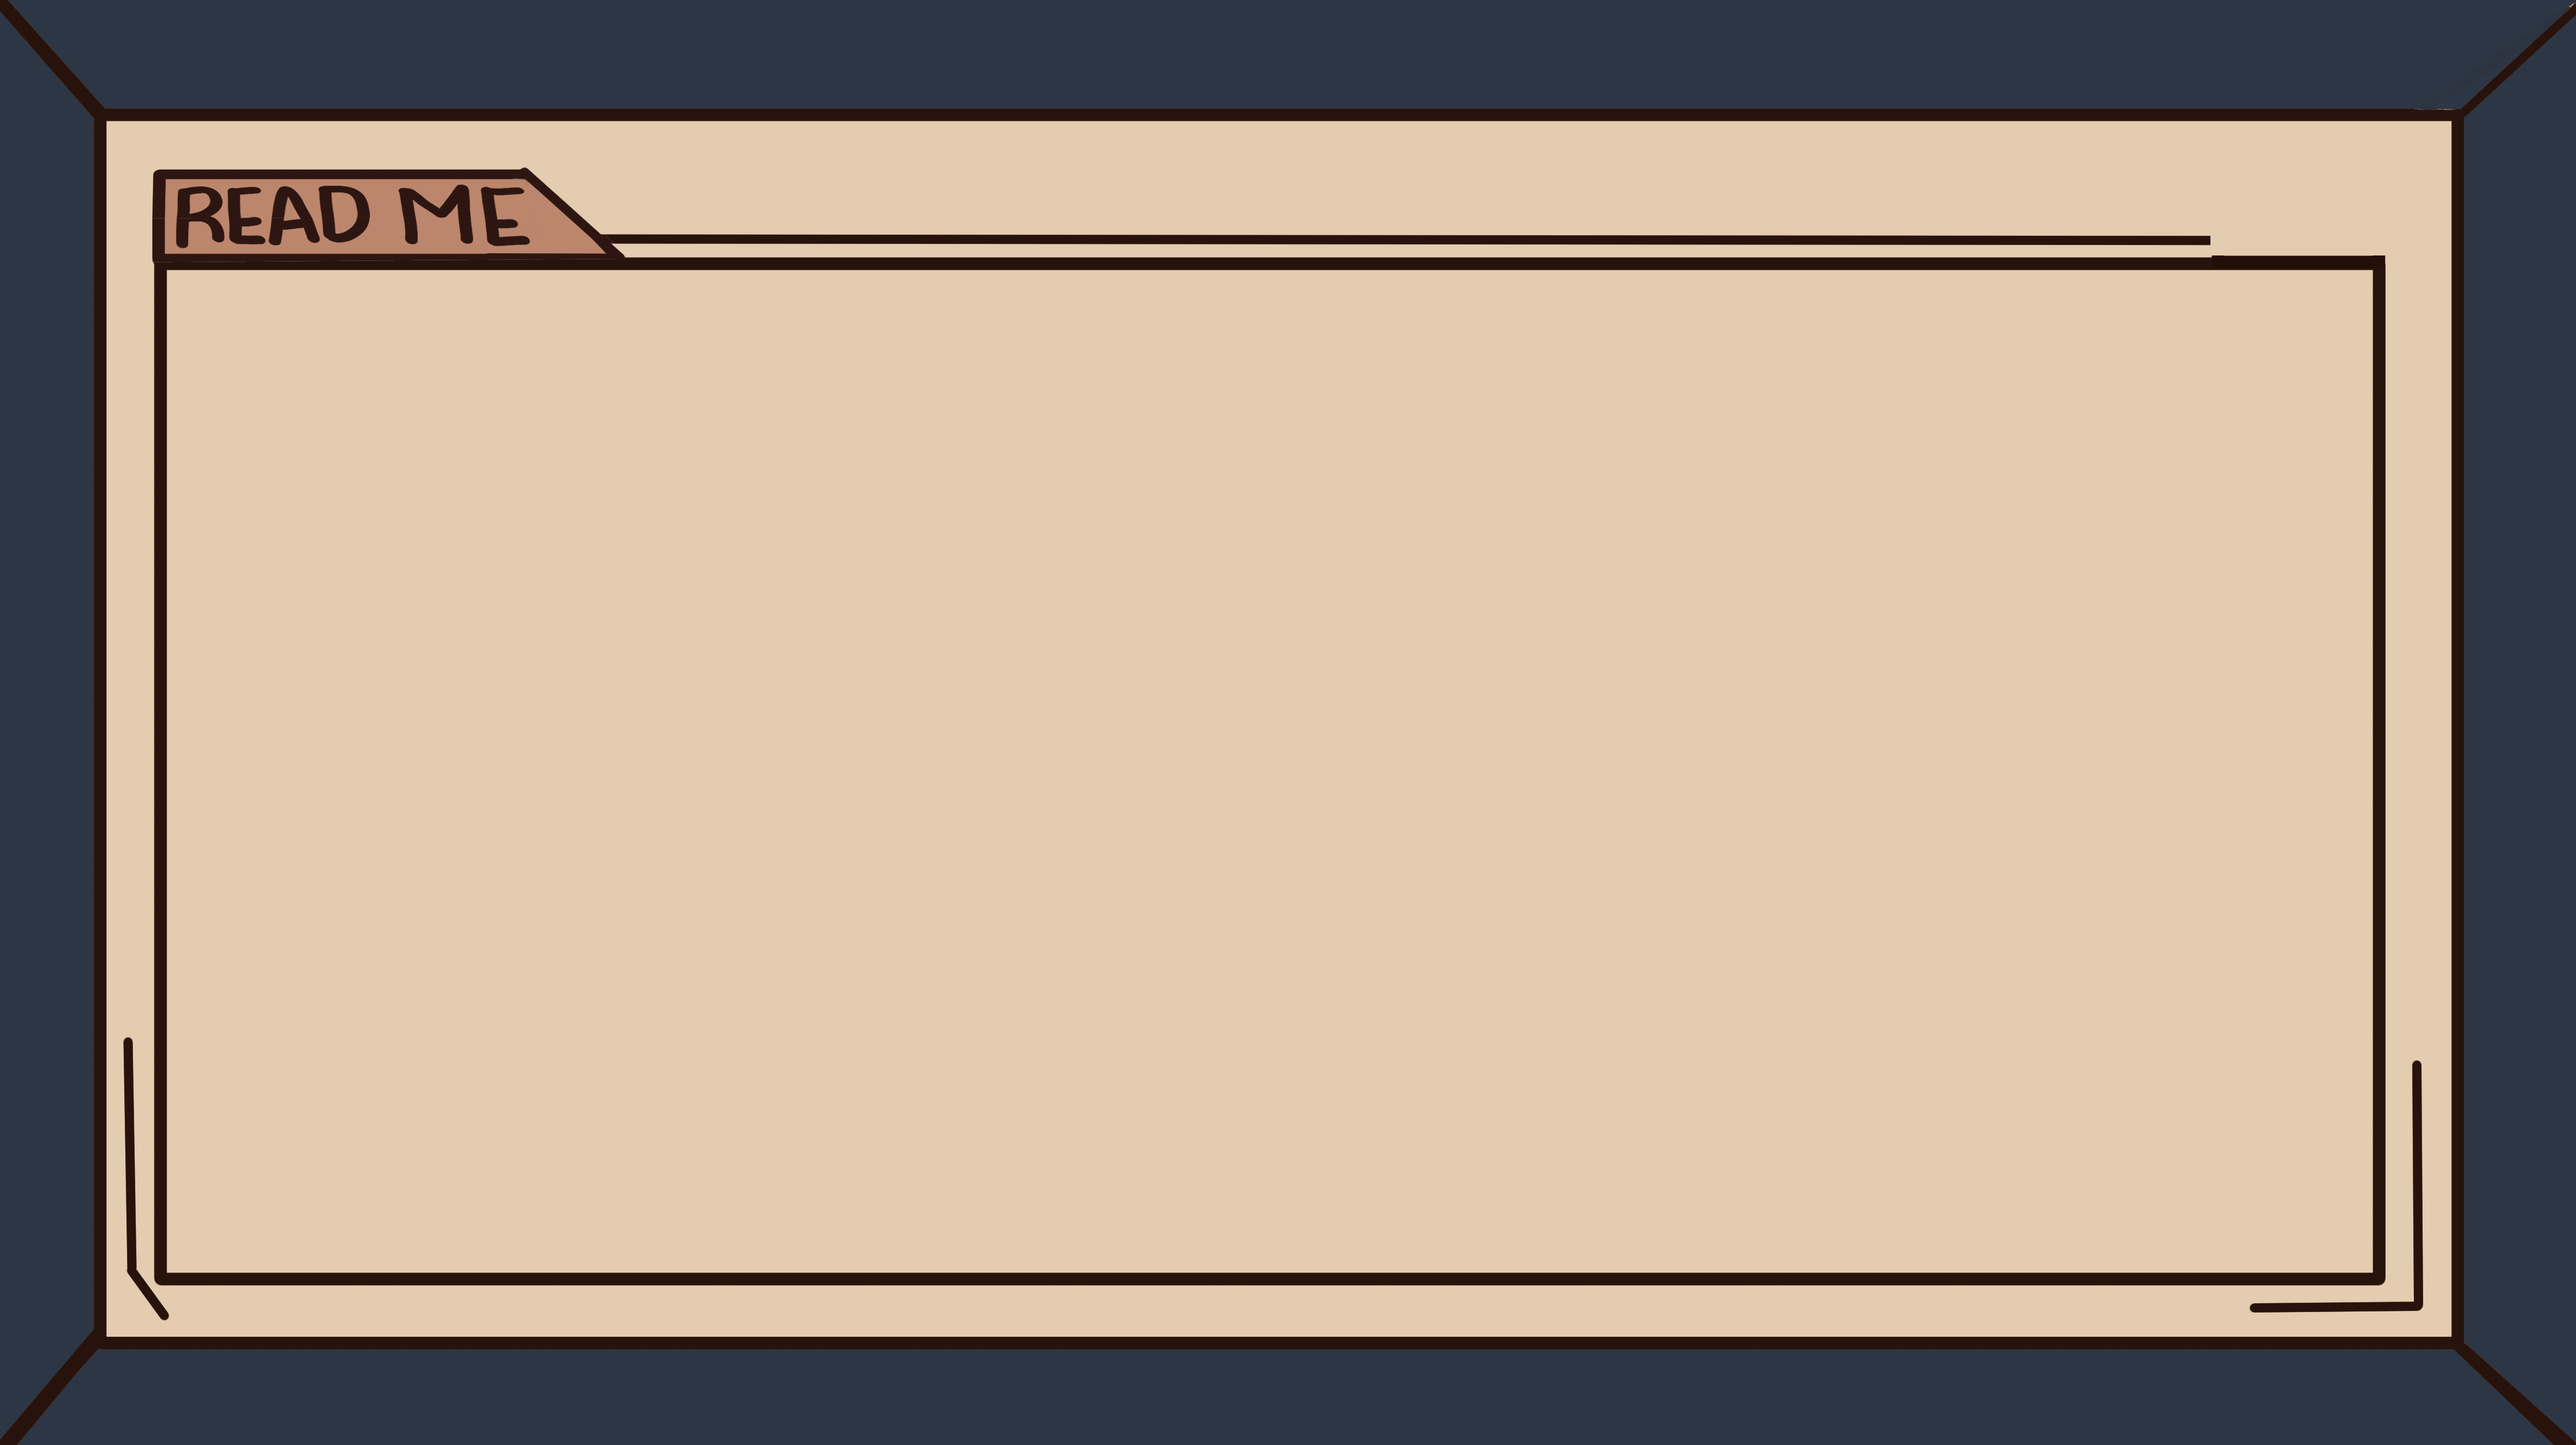
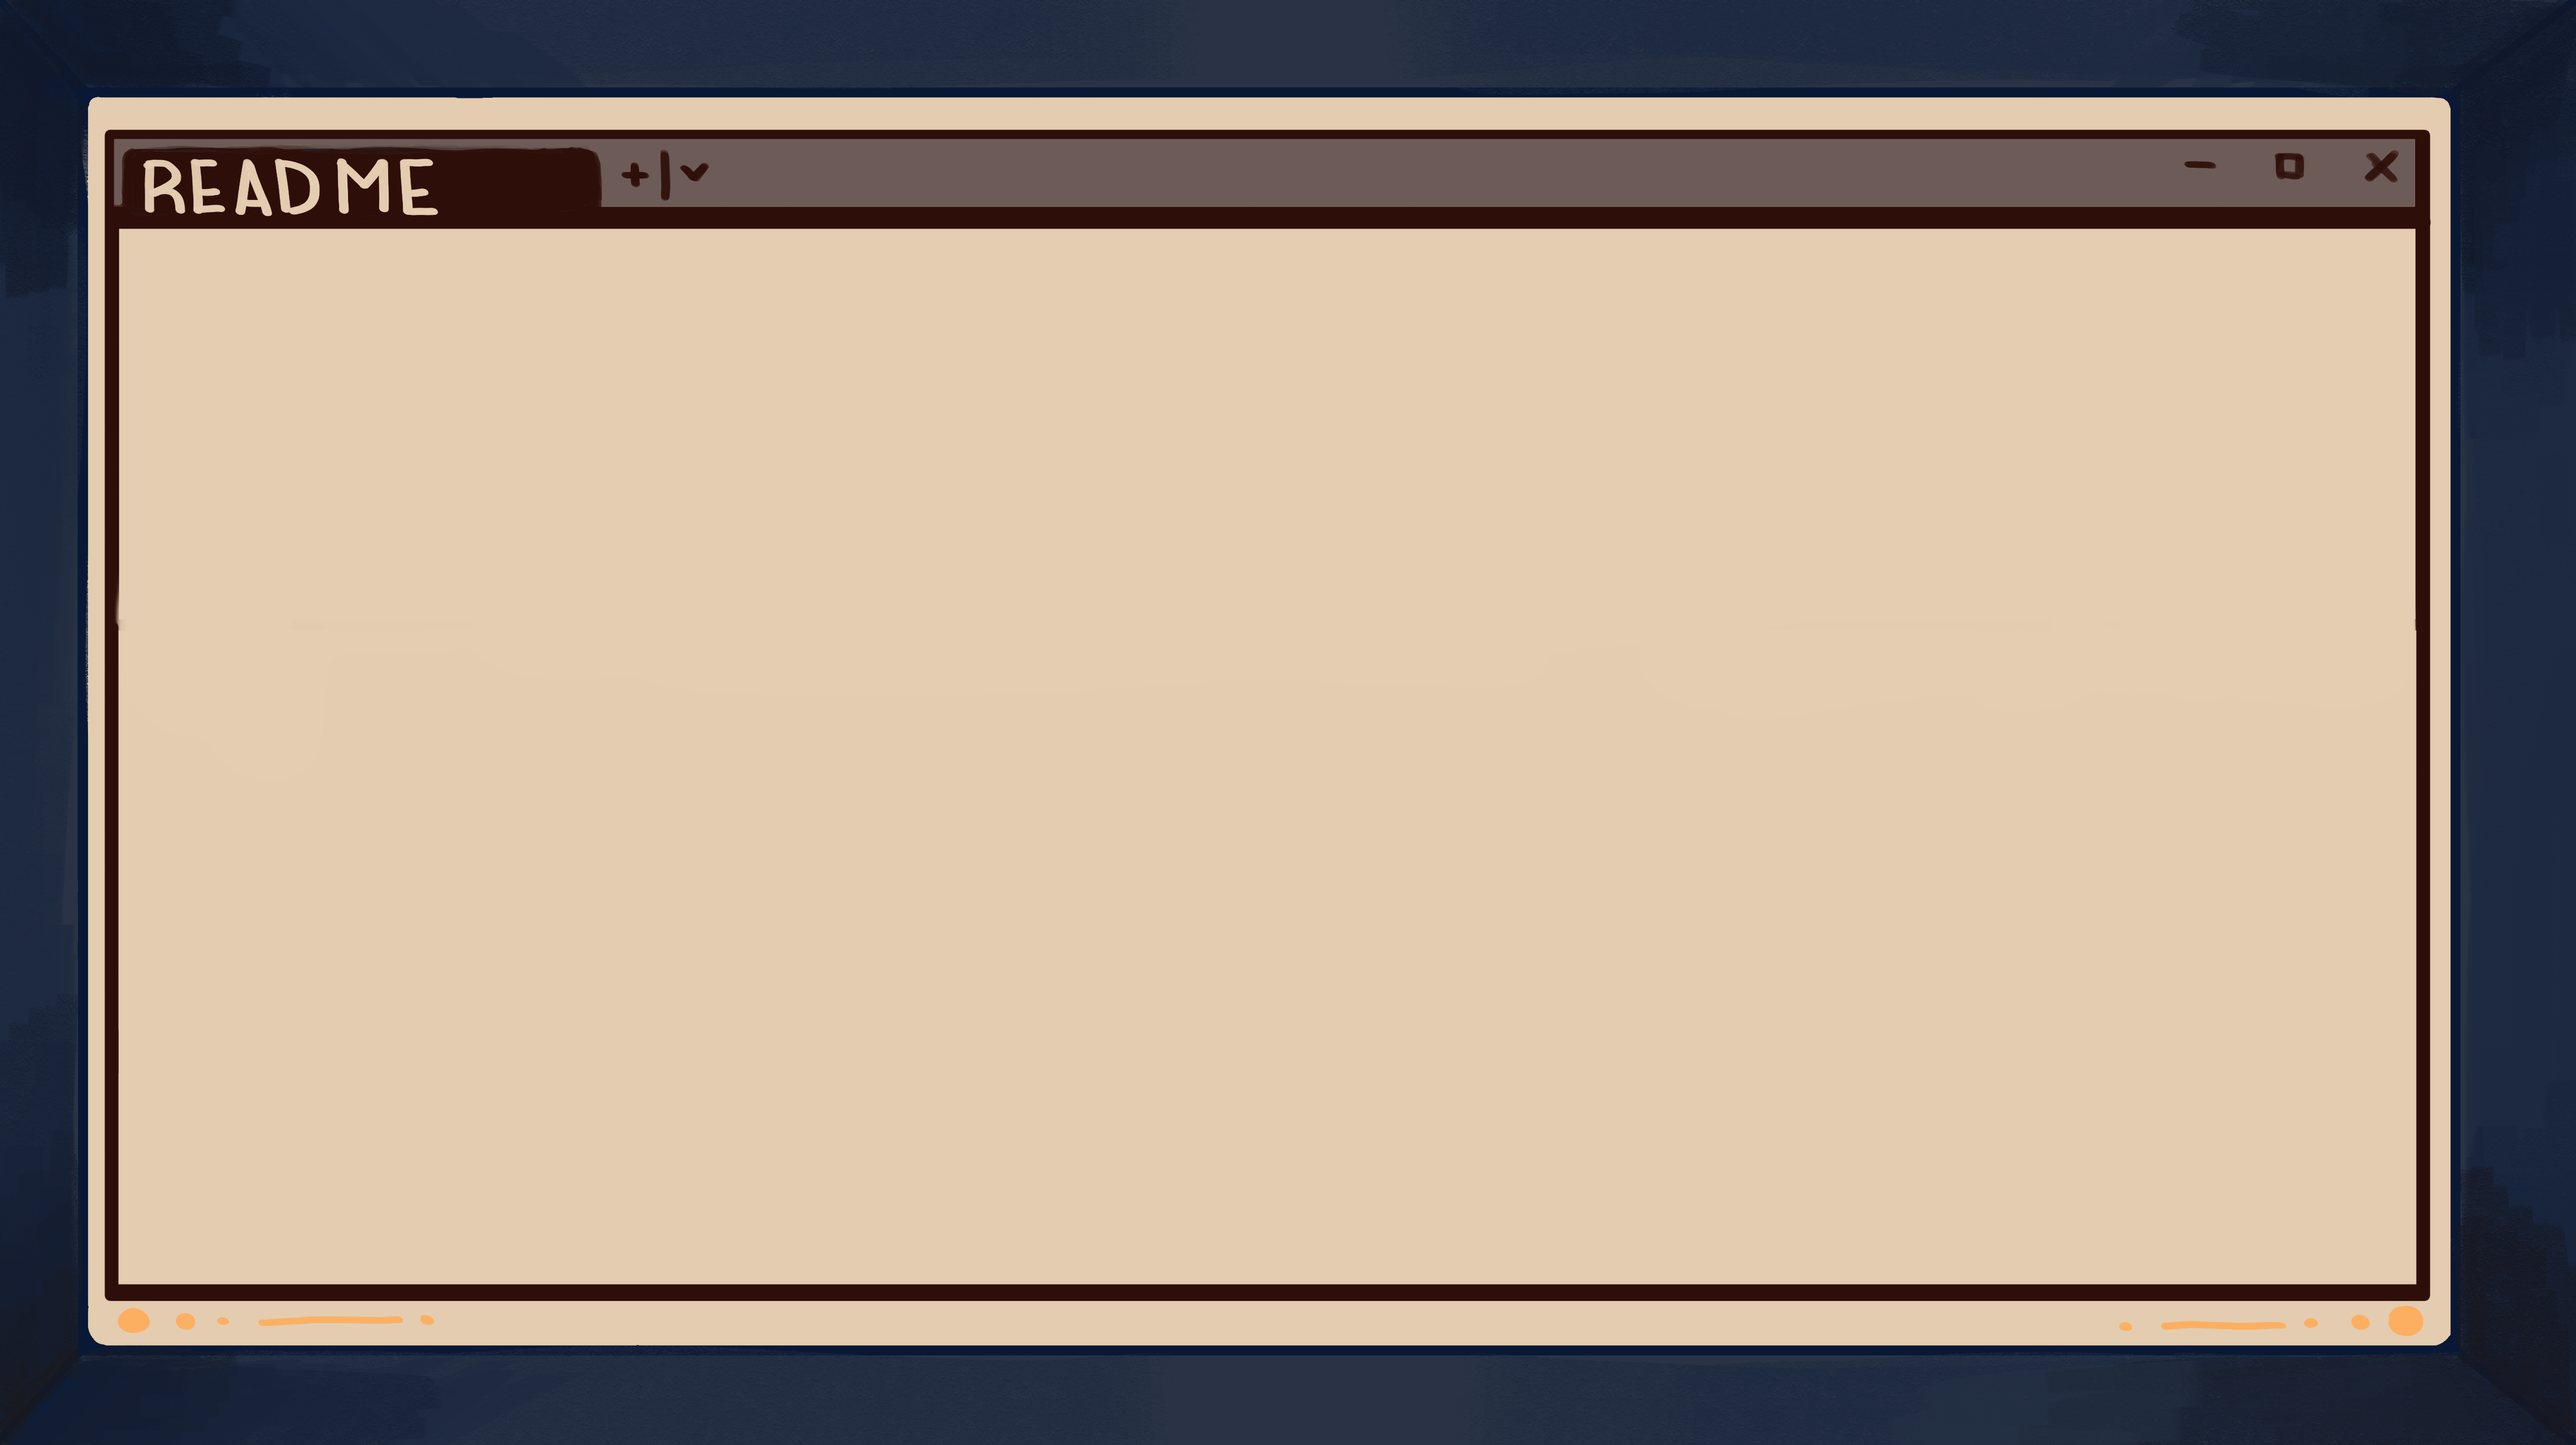
yes

Changed region(s): [[0.0, 0.0, 1.0, 1.0]]

diff --git a/oopsie/version1/src/main/java/com/oopsie/sceneControllers/helpController.java b/oopsie/version1/src/main/java/com/oopsie/sceneControllers/helpController.java
@@ -1,0 +1,148 @@
+package com.oopsie.sceneControllers;
+
+import java.io.IOException;
+
+import com.oopsie.Main;
+
+import javafx.animation.ScaleTransition;
+import javafx.application.Platform;
+import javafx.fxml.FXML;
+import javafx.scene.control.Button;
+import javafx.scene.image.Image;
+import javafx.scene.image.ImageView;
+import javafx.util.Duration;
+
+public class helpController {
+    
+    // images
+    private Image startNormal;
+    private Image startPressed;
+    private Image creditsNormal;
+    private Image creditsPressed;
+    private Image helpNormal;
+    private Image helpPressed;
+    private Image exitNormal;
+    private Image exitPressed;
+
+    @FXML 
+    private Button startButton;
+
+    @FXML 
+    private Button helpButton;
+
+    
+    @FXML 
+    private Button creditsButton;
+
+    
+    @FXML 
+    private Button quitButton;
+
+    @FXML 
+    private Button homeButton;
+
+
+
+    @FXML
+    public void initialize()
+    {
+
+        startNormal = new Image(getClass().getResourceAsStream("/com/oopsie/images/buttons/StartButton.png"));
+        startPressed = new Image(getClass().getResourceAsStream("/com/oopsie/images/buttons/StartButtonPressed.png"));
+
+        creditsNormal = new Image(getClass().getResourceAsStream("/com/oopsie/images/buttons/CreditsButton.png"));
+        creditsPressed = new Image(getClass().getResourceAsStream("/com/oopsie/images/buttons/CreditsButtonPressed.png"));
+
+        helpNormal = new Image(getClass().getResourceAsStream("/com/oopsie/images/buttons/HelpButton.png"));
+        helpPressed = new Image(getClass().getResourceAsStream("/com/oopsie/images/buttons/HelpButtonPressed.png"));
+
+        exitNormal = new Image(getClass().getResourceAsStream("/com/oopsie/images/buttons/ExitButton.png"));
+        exitPressed = new Image(getClass().getResourceAsStream("/com/oopsie/images/buttons/ExitButtonPressed.png"));
+
+        setupButtonHover(creditsButton, creditsNormal, creditsPressed);
+        setupButtonHover(helpButton, helpNormal, helpPressed);
+        setupButtonHover(quitButton, exitNormal, exitPressed);
+        setupButtonHover(startButton, startNormal, startPressed);
+
+        addHoverAnimation(startButton);
+        addHoverAnimation(helpButton);
+        addHoverAnimation(creditsButton);
+        addHoverAnimation(quitButton);
+        
+
+    }
+
+    private void setupButtonHover(Button button, Image normalImage, Image hoverImage) {
+        addHoverAnimation(button);
+
+        ImageView buttonImageView = (ImageView) button.getGraphic();
+
+        if (buttonImageView != null) {
+            button.hoverProperty().addListener((obs, oldValue, isHovered) -> {
+                if (isHovered) {
+                    buttonImageView.setImage(hoverImage);
+                } else {
+                    buttonImageView.setImage(normalImage);
+                }
+            });
+        }
+    }
+
+
+    private void addHoverAnimation(Button curBut) {
+        ScaleTransition scaleUp = new ScaleTransition(Duration.millis(150), curBut);
+        scaleUp.setToX(1.1); 
+        scaleUp.setToY(1.1); 
+
+        ScaleTransition scaleDown = new ScaleTransition(Duration.millis(150), curBut);
+        scaleDown.setToX(1.0); 
+        scaleDown.setToY(1.0); 
+
+        curBut.hoverProperty().addListener((observable, oldValue, isHovered) -> {
+            if (isHovered) {
+                scaleDown.stop();       // Stop shrinking if it was in the middle of it
+                scaleUp.playFromStart(); // Start growing smoothly
+            } else {
+                scaleUp.stop();         // Stop growing if it was in the middle of it
+                scaleDown.playFromStart(); // Start shrinking smoothly
+            }
+        });
+    }
+
+    @FXML
+    private void switchToCredits() throws IOException {
+        Main.changeRoot("creditScreen");
+    }
+
+    @FXML
+    private void switchToHelp() throws IOException {
+        Main.changeRoot("helpScreen");
+    }
+
+        @FXML
+    private void switchToGame() throws IOException {
+        Main.changeRoot("gameWindow");
+    }
+
+    @FXML
+    private void switchToPrimary() throws IOException {
+        Main.changeRoot("mainMenu");
+    }
+
+       @FXML
+    private void switchToTitle() throws IOException {
+        Main.changeRoot("mainMenu");
+    }
+
+
+
+
+    @FXML 
+    private void quitGame()
+    {
+        Platform.exit();
+        System.exit(0);
+    }
+
+
+}
